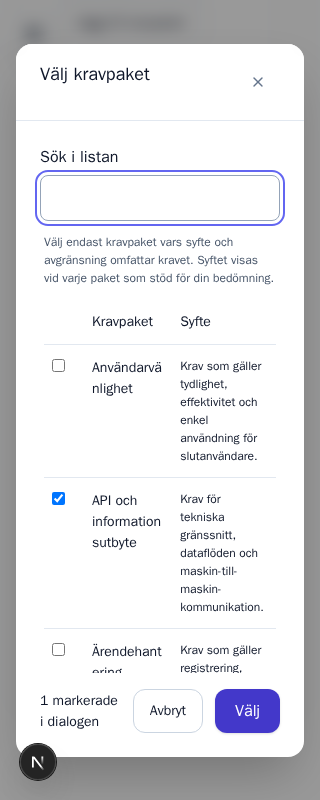
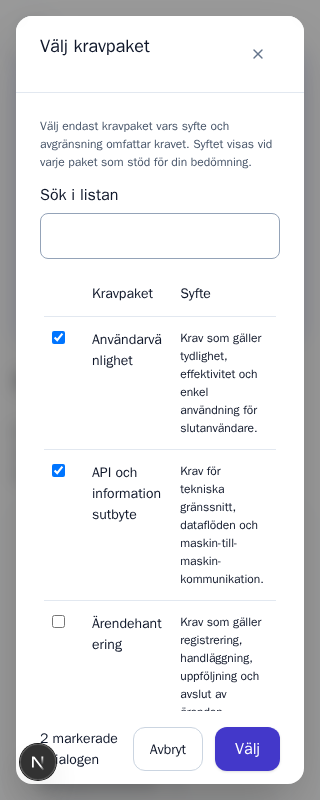
prototype: keep E.2 headers visible and move package guidance above search

diff --git a/components/PrototypeRequirementAssociations.tsx b/components/PrototypeRequirementAssociations.tsx
@@ -92,7 +92,7 @@ export default function PrototypeRequirementAssociations({
   )
   const choices = (
     <>
-      {isPackage && (
+      {isPackage && !table && (
         <p className="prototype-1349-purpose-guidance">
           {t('purposeGuidance')}
         </p>
@@ -304,6 +304,11 @@ export default function PrototypeRequirementAssociations({
           className="prototype-1349-picker"
           {...devMarker({ name: 'prototype modal draft', value: kind })}
         >
+          {isPackage && table && (
+            <p className="prototype-1349-purpose-guidance">
+              {t('purposeGuidance')}
+            </p>
+          )}
           <label htmlFor={`prototype-${kind}-search`}>
             {t('searchAssociations')}
           </label>

diff --git a/app/[locale]/requirements/new/requirement-form.prototype.css b/app/[locale]/requirements/new/requirement-form.prototype.css
@@ -502,7 +502,16 @@ body:has([aria-modal="true"]) .prototype-1349-review {
   border-bottom: 1px solid var(--color-secondary-200);
 }
 .prototype-1349-picker-table th {
+  position: sticky;
+  top: 0;
+  z-index: 1;
   font-weight: 500;
+  background: white;
+  box-shadow: 0 1px 0 var(--color-secondary-200);
+}
+.dark .prototype-1349-picker-table th {
+  background: var(--color-secondary-900);
+  box-shadow: 0 1px 0 var(--color-secondary-700);
 }
 .dark .prototype-1349-picker-table th,
 .dark .prototype-1349-picker-table td {

diff --git a/docs/prototypes/1349/GRANSKNING.md b/docs/prototypes/1349/GRANSKNING.md
@@ -99,6 +99,9 @@ E.1 behåller listorna. E.2 använder en tabell i respektive dialog:
 De två textkolumnerna är vänsterjusterade. Referens-ID har samma grå ton
 som tidigare, och paketens syfte visas med mindre text utan upprepad rubrik.
 Urval, sökning, Välj, Avbryt och märken fungerar på samma sätt i båda varianter.
+Kolumnrubrikerna ligger kvar överst när tabellens innehåll rullas.
+Vägledningen om paketens syfte visas under dialogtiteln, före sökfältet,
+och ligger också kvar när tabellen rullas.
 Den gamla länken med `?variant=E` öppnar E.1.
 
 1. Öppna båda dialogerna i E.2 och kontrollera kolumnerna.
@@ -107,12 +110,17 @@ Den gamla länken med `?variant=E` öppnar E.1.
 4. Växla till E.1 och öppna dialogen. Samma objekt ska vara markerade i listan.
 5. Prova **Avbryt**, Escape och återöppning med båda varianterna.
 6. Granska tabellerna i ljust och mörkt tema samt vid 320 pixlars bredd.
+7. Rulla ned i båda tabellerna. Rubrikerna ska ligga kvar, med täckande
+   bakgrund så att raderna inte syns genom dem.
 
 - [E.2:s paketdialog](screenshots/E2-packages-modal.png)
 - [E.2:s normreferensdialog](screenshots/E2-norms-modal.png)
 - [E.2:s paketdialog i mörkt tema](screenshots/E2-packages-dark.png)
 - [E.2:s normreferenser i mörkt tema](screenshots/E2-norms-dark.png)
 - [E.2:s dialog vid 320 pixlar](screenshots/E2-modal-320.png)
+- [Rullad paketlista med fasta rubriker](screenshots/E2-packages-sticky.png)
+- [Rullade normreferenser med fasta rubriker](screenshots/E2-norms-sticky.png)
+- [Kontroll av fasta rubriker](sticky-header-inspection.json)
 - [Kontroller för E.2](table-modal-inspection.json)
 
 ## Ändringslista och kontrollpunkter
